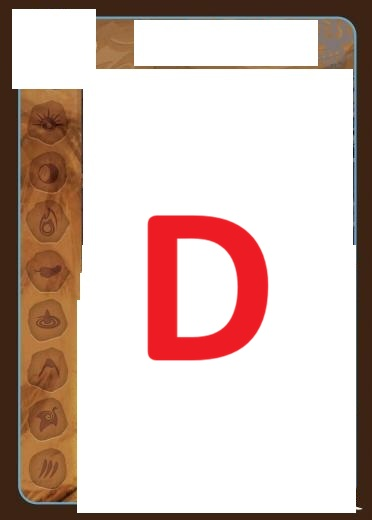
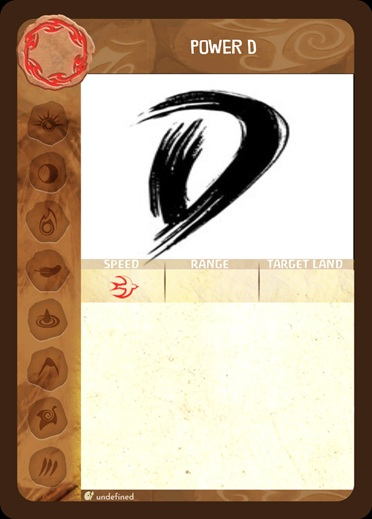
1. Replaced art with better art made by Sloverlord 2. Fixed all cards speed to slow 3. Changed tracks to 7 spots per row 4. Gave spirit a custom resource tracker

diff --git a/pbf/migrations/0066_add_custom_placeholder_spirit.py b/pbf/migrations/0066_add_custom_placeholder_spirit.py
@@ -6,12 +6,12 @@ def load_custom(apps, schema_editor):
     Card = apps.get_model("pbf", "Card")
     mijn = Spirit(name="CustomPlaceholder")
     mijn.save()
-    Card(name="CustomPlaceholder Card A", cost=0, type=2, speed=0, spirit=mijn, elements="").save()
-    Card(name="CustomPlaceholder Card B", cost=0, type=2, speed=0, spirit=mijn, elements="").save()
-    Card(name="CustomPlaceholder Card C", cost=0, type=2, speed=1, spirit=mijn, elements="").save()
-    Card(name="CustomPlaceholder Card D", cost=0, type=2, speed=0, spirit=mijn, elements="").save()
-    Card(name="CustomPlaceholder Card E", cost=0, type=2, speed=0, spirit=mijn, elements="").save()
-    Card(name="CustomPlaceholder Card F", cost=0, type=2, speed=0, spirit=mijn, elements="").save()
+    Card(name="CustomPlaceholder Card A", cost=0, type=2, speed=2, spirit=mijn, elements="").save()
+    Card(name="CustomPlaceholder Card B", cost=0, type=2, speed=2, spirit=mijn, elements="").save()
+    Card(name="CustomPlaceholder Card C", cost=0, type=2, speed=2, spirit=mijn, elements="").save()
+    Card(name="CustomPlaceholder Card D", cost=0, type=2, speed=2, spirit=mijn, elements="").save()
+    Card(name="CustomPlaceholder Card E", cost=0, type=2, speed=2, spirit=mijn, elements="").save()
+    Card(name="CustomPlaceholder Card F", cost=0, type=2, speed=2, spirit=mijn, elements="").save()
 
 
 def delete_custom(apps, schema_editor):

diff --git a/pbf/views.py b/pbf/views.py
@@ -458,10 +458,8 @@ spirit_presence = frozendict({
                 # hoard treasure
                 (13,1146,1.0), (83,1146,1.0), (153,1146,1.0), (223,1146,1.0), (293,1146,1.0), (363,1146,1.0), (433,1146,1.0), (503,1146,1.0), (573,1146,1.0), (643,1146,1.0), (713,1146,1.0), (783,1146,1.0), (853,1146,1.0),
                 ),
-        'CustomPlaceholder': ((450, 146, 1.0, ''), (523, 146, 1.0, ''), (596, 146, 1.0, ''), (669, 146, 1.0, ''),
-              (742, 146, 1.0, ''), (815, 146, 1.0, ''),
-              (450, 240, 1.0), (523, 240, 1.0, ''), (596, 240, 1.0, ''), (669, 240, 1.0),
-              (742, 240, 1.0, ''), (815, 240, 1.0)),
+        'CustomPlaceholder': ((432,118,1.0),(504,118,1.0),(576,118,1.0),(648,118,1.0),(720,118,1.0),(792,118,1.0),(864,118,1.0),
+                (432,209,1.0),(504,209,1.0),(576,209,1.0),(648,209,1.0),(720,209,1.0),(792,209,1.0),(864,209,1.0)),
 })
 
 spirit_additional_cards = frozendict({

diff --git a/pbf/models.py b/pbf/models.py
@@ -538,6 +538,7 @@ class GamePlayer(models.Model):
             'IntensifyMemory': 'Prepared Elements',
             'MentorMemory': 'Prepared Elements',
             'Waters': 'Healing Markers',
+            'CustomPlaceholder': 'Custom Resource Tracker'
         }
         return d.get(self.full_name())
 
